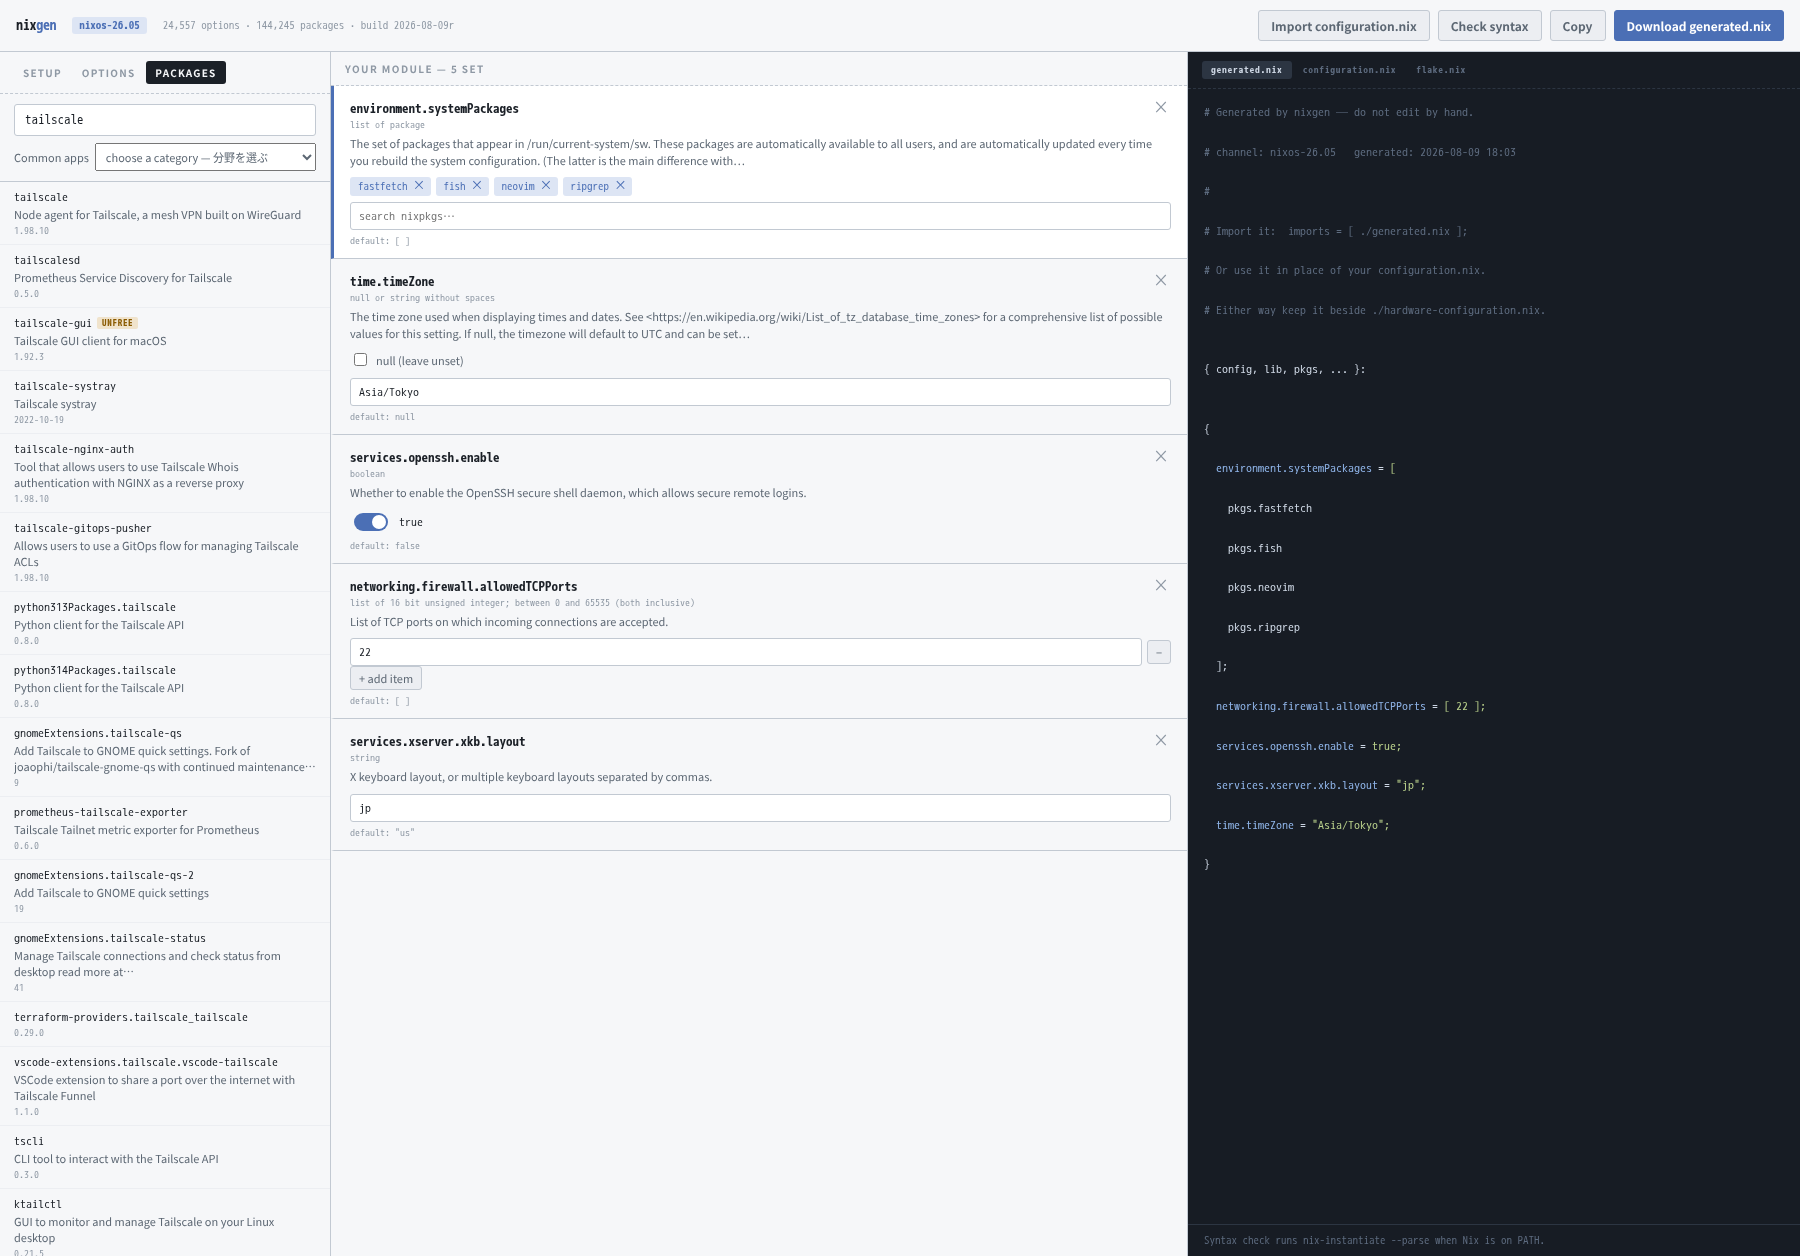
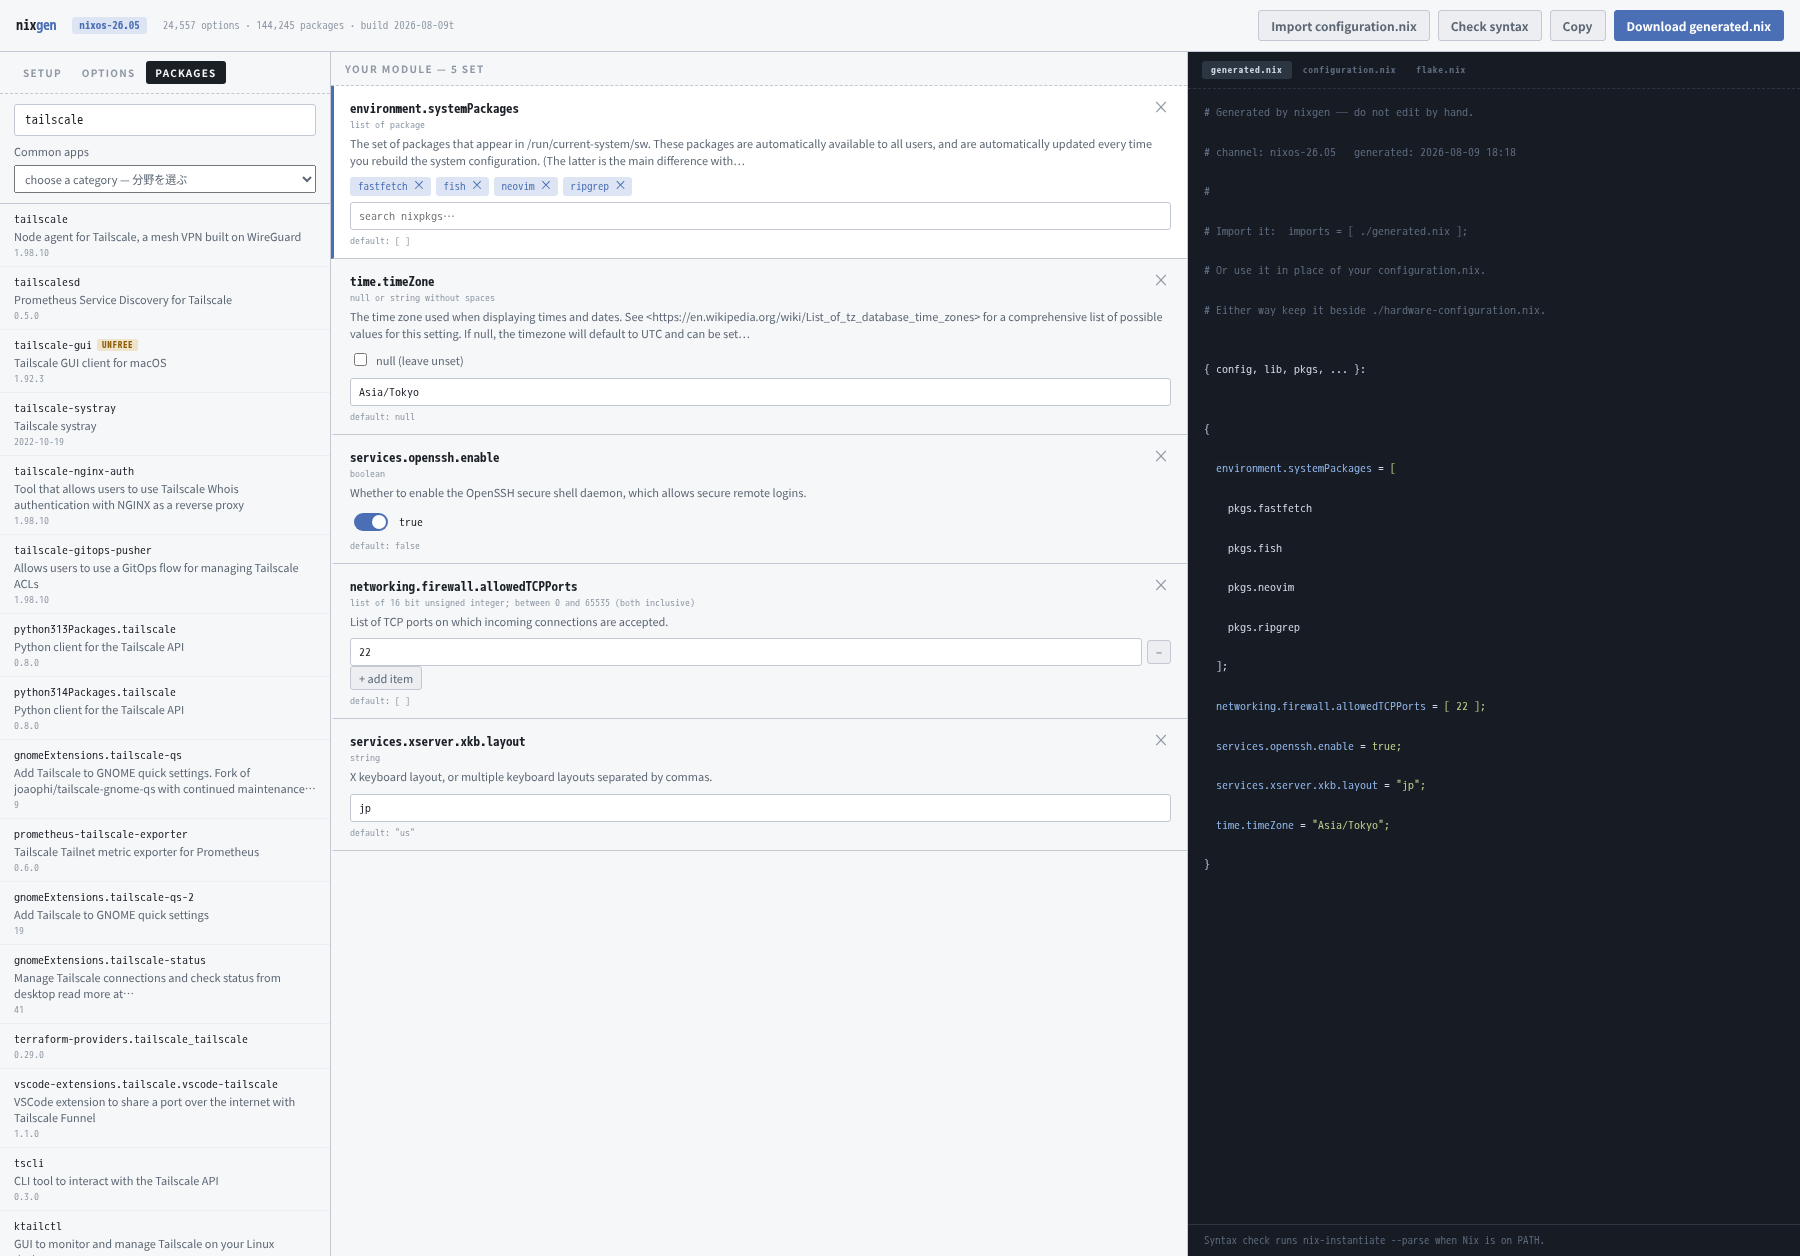
Put the Japanese in every dropdown, and make it fit
The app categories got both languages last time; the rest of the form did
not, and the same argument applies to all of it — a translated "the commit
it was indexed at" is a guess about what the choice does.

Fitting turned out to be the harder half. A closed select shows what fits
and drops the rest, and the rest is the Japanese. Measured every label
against the box it is shown in: three were over and the category list had
no room at all, so it takes the whole line now.

Changed region(s): [[0.0, 0.1242, 0.1867, 1.0]]

diff --git a/build/static/index.html b/build/static/index.html
@@ -46,8 +46,8 @@
              cards you can read, edit and remove. -->
         <div class="presetline" id="presetline">
           <span>Desktop</span>
-          <select id="s-desktop">
-            <option value="">choose…</option>
+          <select id="s-desktop" class="notranslate" translate="no">
+            <option value="">choose… — 選ぶ</option>
             <option value="gnome">GNOME</option>
             <option value="plasma">KDE Plasma</option>
             <option value="xfce">Xfce</option>
@@ -59,9 +59,9 @@
              one adds all of them, as cards you can read and change. -->
         <div class="presetline" id="langline">
           <span>Language</span>
-          <select id="s-lang">
-            <option value="">choose…</option>
-            <option value="en">English</option>
+          <select id="s-lang" class="notranslate" translate="no">
+            <option value="">choose… — 選ぶ</option>
+            <option value="en">English — 英語</option>
             <option value="ja">日本語 — Japanese</option>
             <option value="fr">Français — French</option>
             <option value="de">Deutsch — German</option>
@@ -73,8 +73,8 @@
         </div>
         <div class="presetline" id="gpuline">
           <span>Graphics</span>
-          <select id="s-gpu">
-            <option value="">choose…</option>
+          <select id="s-gpu" class="notranslate" translate="no">
+            <option value="">choose… — 選ぶ</option>
             <option value="amd">AMD</option>
             <option value="intel">Intel</option>
             <option value="nvidia">NVIDIA</option>
@@ -123,14 +123,14 @@
           <label>Main user<input type="text" id="s-user" value="user" spellcheck="false"></label>
           <p class="warn" id="s-user-warn" hidden></p>
           <label>Architecture
-            <select id="s-system">
+            <select id="s-system" class="notranslate" translate="no">
               <option value="x86_64-linux">x86_64-linux</option>
               <option value="aarch64-linux">aarch64-linux</option>
             </select>
           </label>
 
           <label>nixpkgs channel
-            <select id="s-release"></select>
+            <select id="s-release" class="notranslate" translate="no"></select>
           </label>
           <p class="note" id="s-release-note"></p>
           <button class="btn" id="btn-reindex" hidden></button>
@@ -139,18 +139,18 @@
           <button class="btn" id="btn-prune" hidden></button>
 
           <label>What flake.nix points at
-            <select id="s-pin">
-              <option value="branch">the channel branch</option>
-              <option value="commit">the commit it was indexed at</option>
+            <select id="s-pin" class="notranslate" translate="no">
+              <option value="branch">the branch — チャンネルのブランチ</option>
+              <option value="commit">the commit — 取り込んだコミット</option>
             </select>
           </label>
           <p class="note" id="s-pin-note"></p>
 
           <label>Boot loader
-            <select id="s-bootloader">
-              <option value="systemd-boot">systemd-boot (UEFI)</option>
-              <option value="grub">GRUB (BIOS / legacy)</option>
-              <option value="none">none — set it elsewhere</option>
+            <select id="s-bootloader" class="notranslate" translate="no">
+              <option value="systemd-boot">systemd-boot (UEFI) — UEFIのマシン</option>
+              <option value="grub">GRUB (BIOS / legacy) — 古いBIOSのマシン</option>
+              <option value="none">none (set it elsewhere) — 他で設定する</option>
             </select>
           </label>
           <label id="s-grub-wrap" hidden>Disk for GRUB

diff --git a/build/static/app.js b/build/static/app.js
@@ -2,7 +2,7 @@
 
 /* Shown in the header. Bump it whenever this file changes, so "the fix did not
    work" can be told apart from "the old file is still being served". */
-const BUILD = '2026-08-09r';
+const BUILD = '2026-08-09t';
 
 const $  = (s, r = document) => r.querySelector(s);
 const $$ = (s, r = document) => [...r.querySelectorAll(s)];
@@ -126,9 +126,13 @@ function setStateVersion(release, channel) {
   // The file names, option paths and the directory listing in the steps are
   // Nix, not prose, so they are guarded like every other identifier here.
   $$('#howto code, #howto .tree').forEach(keep);
-  // The category names are already in both languages; a translator rewriting
-  // them is what the second language is there to prevent.
-  $$('#s-apps option').forEach(keep);
+  // Every choice in the form is written in both languages already, so a
+  // translator rewriting one is exactly what the second language is there to
+  // prevent. `translate="no"` says so and this makes it stick, because not
+  // every browser honours the attribute. #s-release is filled in later and
+  // guards its own options as it builds them.
+  $$('#s-desktop option, #s-lang option, #s-gpu option, #s-apps option, ' +
+     '#s-system option, #s-pin option, #s-bootloader option').forEach(keep);
   renderEditor();
   await loadReleases();
   await loadStarter();
@@ -204,10 +208,13 @@ async function loadReleases() {
   sel.innerHTML = '';
   state.releases.forEach(ch => {
     // The first numbered release is the current one; unstable is not a
-    // release at all, so it gets said rather than left to be inferred.
-    const tag = ch === state.unstable ? ' (moves every day)'
-              : ch === state.releases[0] ? ' (current)' : '';
-    const o = el('option', null, ch + tag);
+    // release at all, so it gets said rather than left to be inferred. The
+    // channel name is an identifier and the tag is prose, so the tag carries
+    // its Japanese like every other option in this form. Both halves have to
+    // fit the closed box — 300px — or the one that matters is the one cut off.
+    const tag = ch === state.unstable ? ' (daily) — 毎日変わります'
+              : ch === state.releases[0] ? ' (current) — 最新の安定版' : '';
+    const o = keep(el('option', null, ch + tag));
     o.value = ch;
     sel.appendChild(o);
   });

diff --git a/build/static/app.css b/build/static/app.css
@@ -114,6 +114,12 @@ main {
 }
 .presetline select { flex: 1; min-width: 0; padding: 4px 6px; }
 .presetline .mini { padding: 4px 9px; }
+/* The category names carry their Japanese, and a closed select cuts whatever
+   does not fit — which was the second half, the half a translated page relies
+   on. This row has no Add button beside it, so the select can have the line to
+   itself and every name fits. */
+#appsline { flex-wrap: wrap; }
+#appsline select { flex-basis: 100%; }
 .presethint { margin: 5px 0 0; font-size: 10.5px; color: var(--ink-faint); }
 
 .row {

diff --git a/CHANGELOG.md b/CHANGELOG.md
@@ -9,6 +9,20 @@ option counts.
 
 ## English
 
+### build 2026-08-09t
+
+- **Every dropdown carries its Japanese now**, not just the app categories:
+  the channel, what `flake.nix` points at, the boot loader, the languages and
+  the two `choose…` placeholders. All of them are marked so a translator leaves
+  them alone, and all of them remember their own text, because the guard that
+  covers option paths has to cover the words a choice is made from too.
+- **The labels are cut to fit the closed box.** A select shows what fits and
+  drops the rest, and the rest was the Japanese half — the half a translated
+  page is reading. "the commit it was indexed at" became "the commit", the
+  unstable channel says "(daily)", and the category list, which had no room to
+  spare, was given the whole line instead. Measured rather than eyeballed: all
+  40 labels now fit the box they are shown in.
+
 ### build 2026-08-09r
 
 - **The category names carry their own Japanese**: `Audio and video —
@@ -327,6 +341,11 @@ three of these six showed up in only one of the two.
 ---
 
 ## 日本語
+
+### build 2026-08-09t
+
+- **すべてのプルダウンに日本語を併記しました。** 分野名だけではなく、チャンネル、`flake.nix` が指すもの、ブートローダー、言語、そして `choose…` の行も対象です。いずれも**翻訳機能に書き換えられないよう固定**し、自分の文字列を覚えさせてあります。オプション名を守っている仕組みは、**選択肢の文言にも同じように必要**だからです。
+- **閉じた状態の幅に収まるよう、文言を詰めました。** プルダウンは閉じているとき、収まらない部分を切り捨てます。切り捨てられていたのは**後半の日本語** — 翻訳して読んでいる人が頼っている側です。`the commit it was indexed at` は `the commit` に、unstable の注記は `(daily)` にしました。分野の一覧は余裕が無かったため、**選択欄を一行まるごと使う形**に変えました。目視ではなく実測して、**40個すべてが枠に収まる**ことを確認しています。
 
 ### build 2026-08-09r
 

diff --git a/CLAUDE.md b/CLAUDE.md
@@ -167,6 +167,14 @@ at `nixos-rebuild`, which is the least helpful place for it to surface.
   their own text in `data-keep`; a MutationObserver puts it back. Not every
   browser honours the attribute, and a translated `services.openssh.enable` is
   not valid Nix. Descriptions are the only prose meant to be translated.
+- **Every dropdown option is written `English — 日本語`, and every one of them
+  has to fit the closed select.** A select shows what fits and silently drops
+  the rest, and the rest is the Japanese, which is the half a translated page
+  depends on. Three labels were over the 302px box and one list was over its
+  221px one; the fix was shorter wording for the first three and giving
+  `#appsline` the whole line for the last. Measure, do not eyeball — the tools
+  clone the select with `width: max-content` and compare against its real box.
+  Adding an option means checking the same thing.
 - **Adding a package must not rebuild the card.** It would reset a text box the
   user had dragged taller. `addPackage` edits the textarea in place.
 - **Adding a package must not replace the value.** When the list came in
